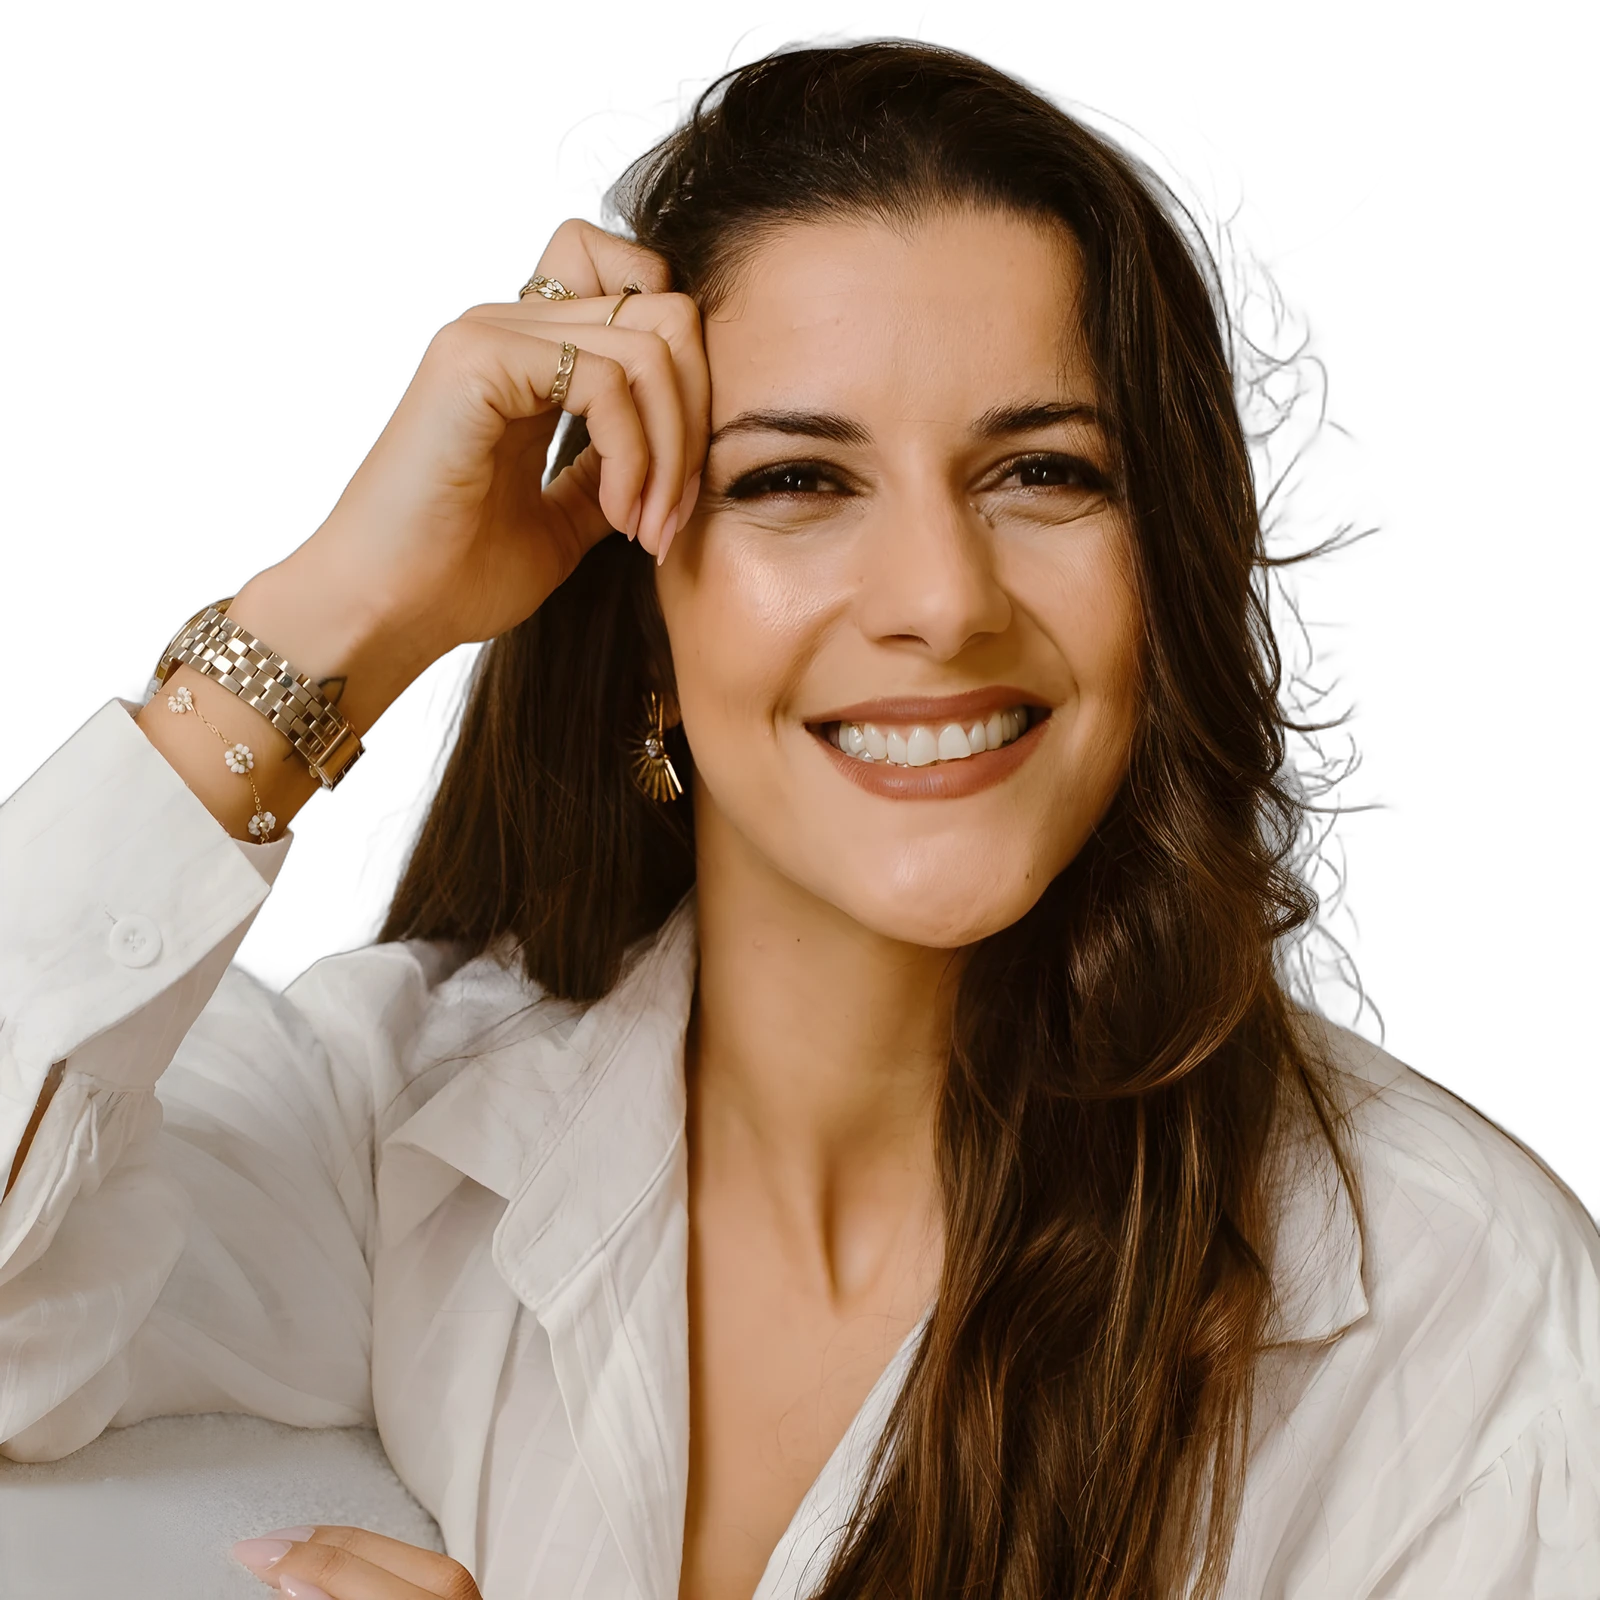
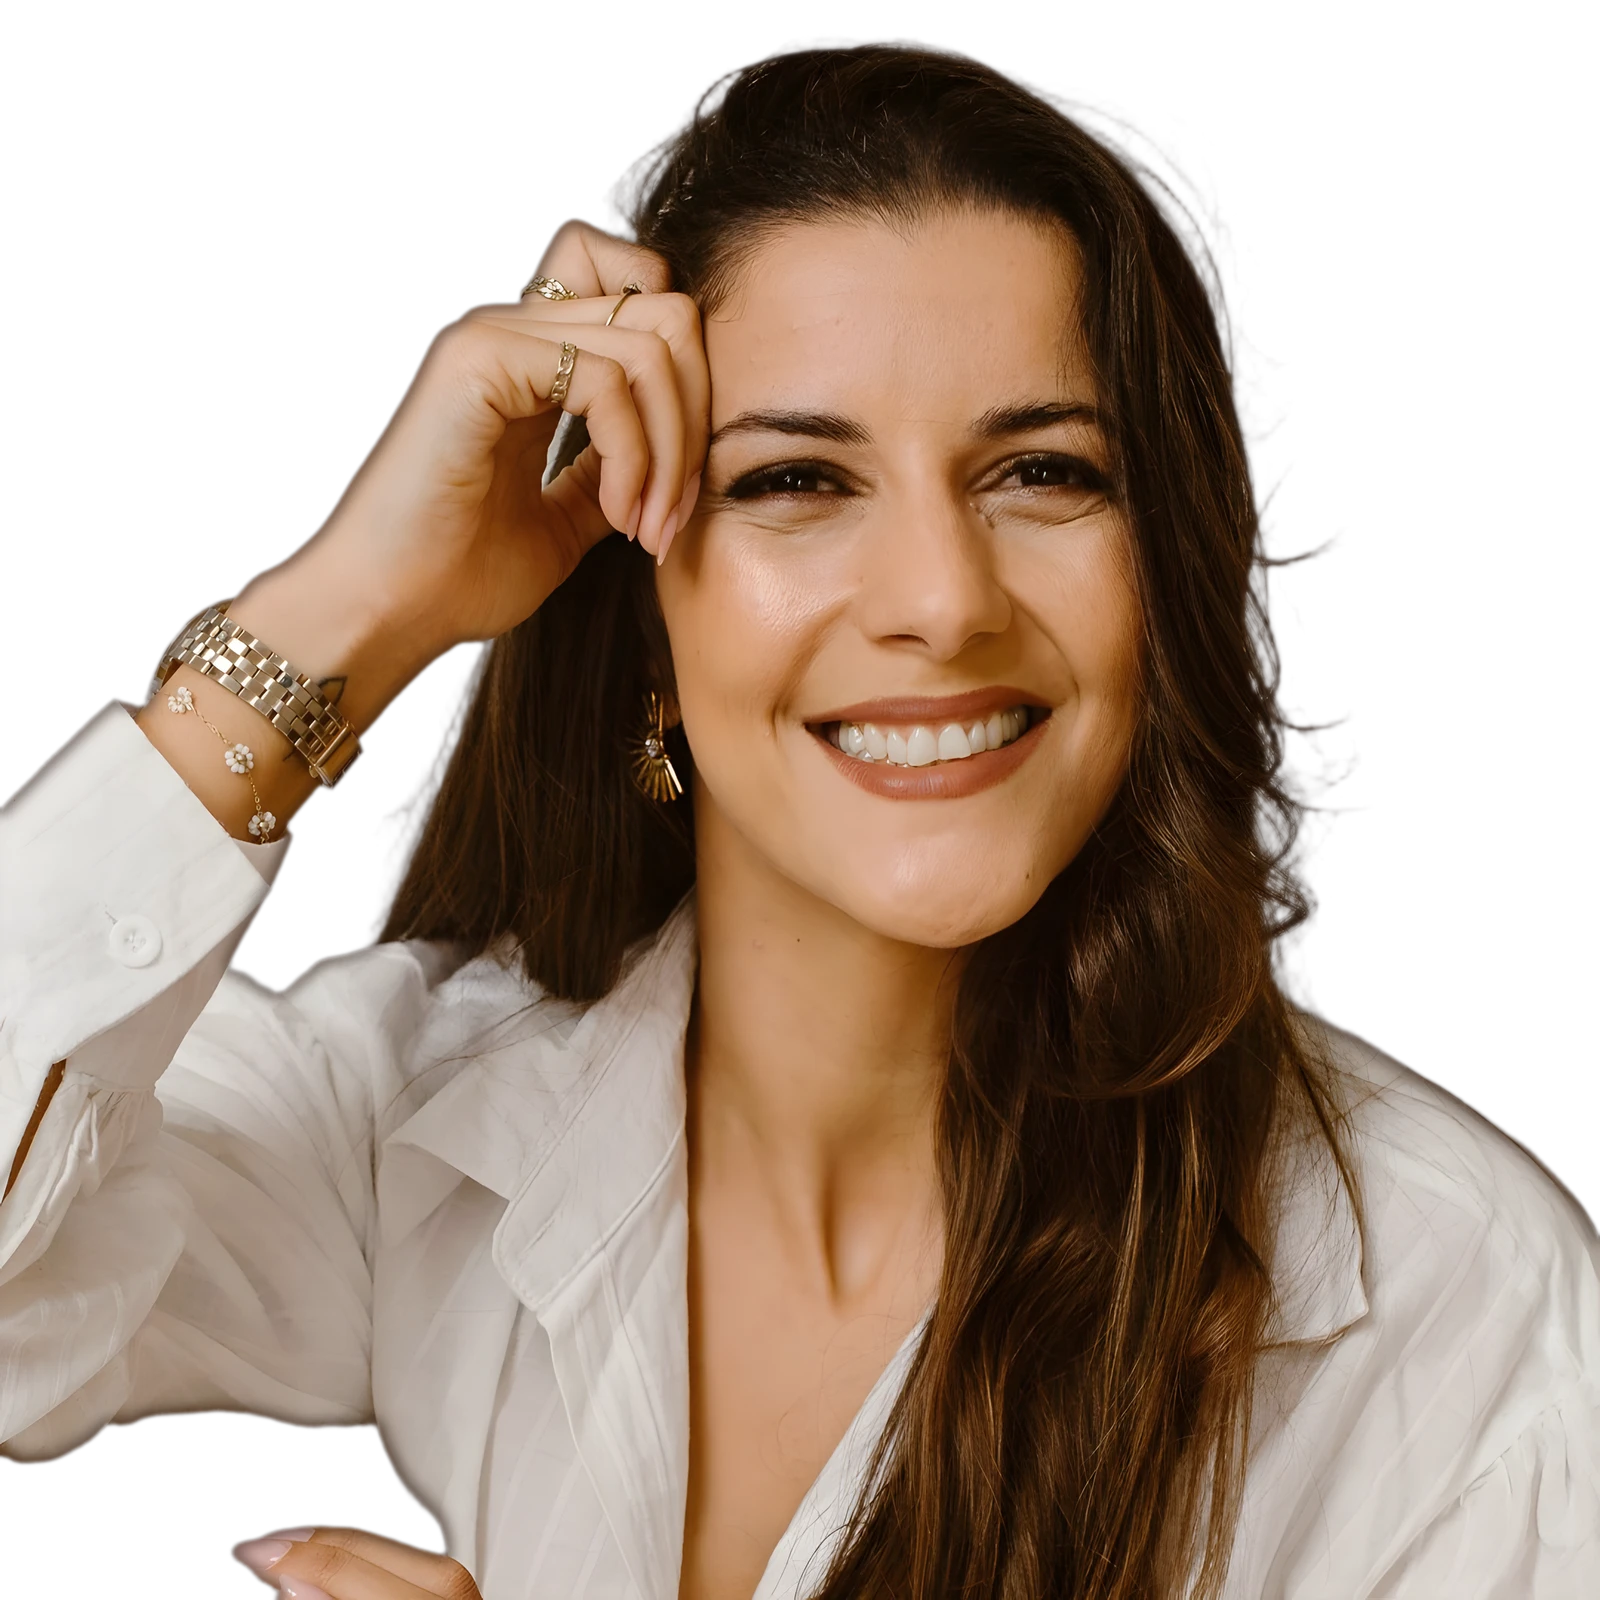
Capa: recorte refeito (birefnet-portrait), borda escurecida e sombra preta suave

diff --git a/index.html b/index.html
@@ -82,7 +82,7 @@ p{margin:0}
 .capa-nome .sub{display:block;text-align:right;font:500 11px/1 Figtree,sans-serif;letter-spacing:.7em;color:var(--ouro2);margin-top:14px}
 .capa-foto{position:absolute;left:50%;bottom:0;z-index:2;height:calc(100% - 118px);aspect-ratio:1;transform:translateX(-50%);pointer-events:none;
   -webkit-mask:linear-gradient(to bottom,#000 70%,transparent 96%),linear-gradient(to right,transparent,#000 14%,#000 88%,transparent);-webkit-mask-composite:source-in;mask:linear-gradient(to bottom,#000 70%,transparent 96%),linear-gradient(to right,transparent,#000 14%,#000 88%,transparent);mask-composite:intersect}
-.capa-foto img{width:100%;height:100%;object-fit:contain;object-position:50% 100%;filter:drop-shadow(0 30px 40px rgba(0,0,0,.35));animation:revela 1.3s var(--ease) .15s both}
+.capa-foto img{width:100%;height:100%;object-fit:contain;object-position:50% 100%;filter:drop-shadow(0 0 10px rgba(0,0,0,.4)) drop-shadow(0 30px 40px rgba(0,0,0,.35));animation:revela 1.3s var(--ease) .15s both}
 @keyframes revela{from{opacity:0;transform:translateY(4%) scale(1.03)}to{opacity:1;transform:none}}
 .chamada{position:absolute;z-index:3}
 .ch-esq{left:var(--g);bottom:clamp(40px,8vh,90px);width:clamp(250px,21vw,320px)}
